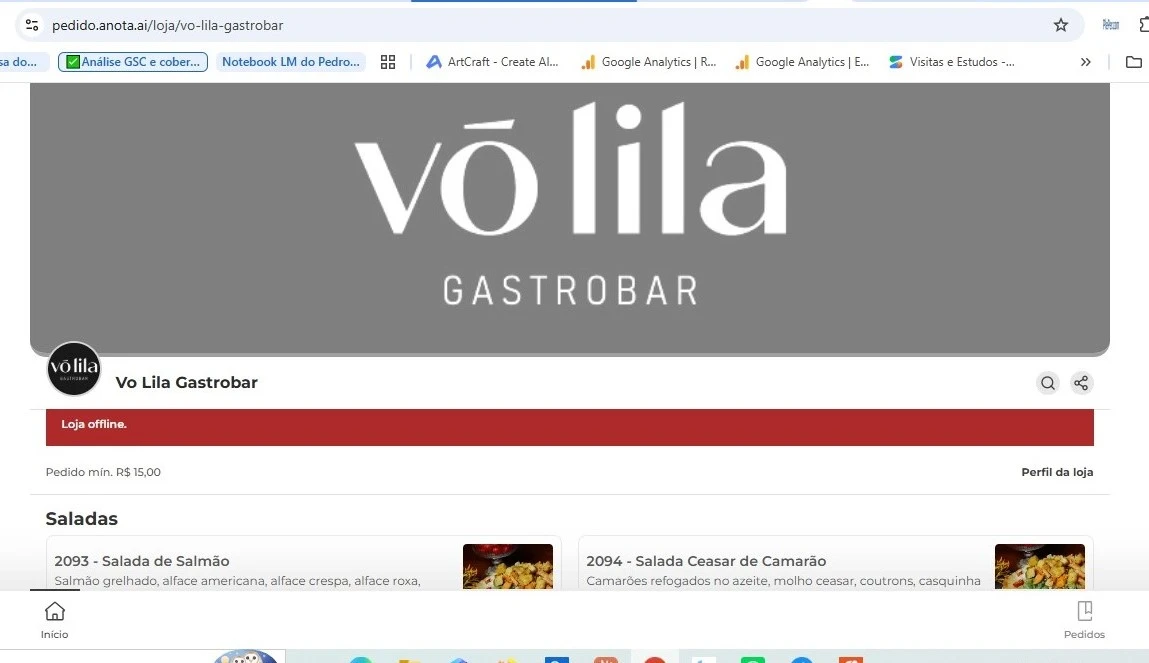
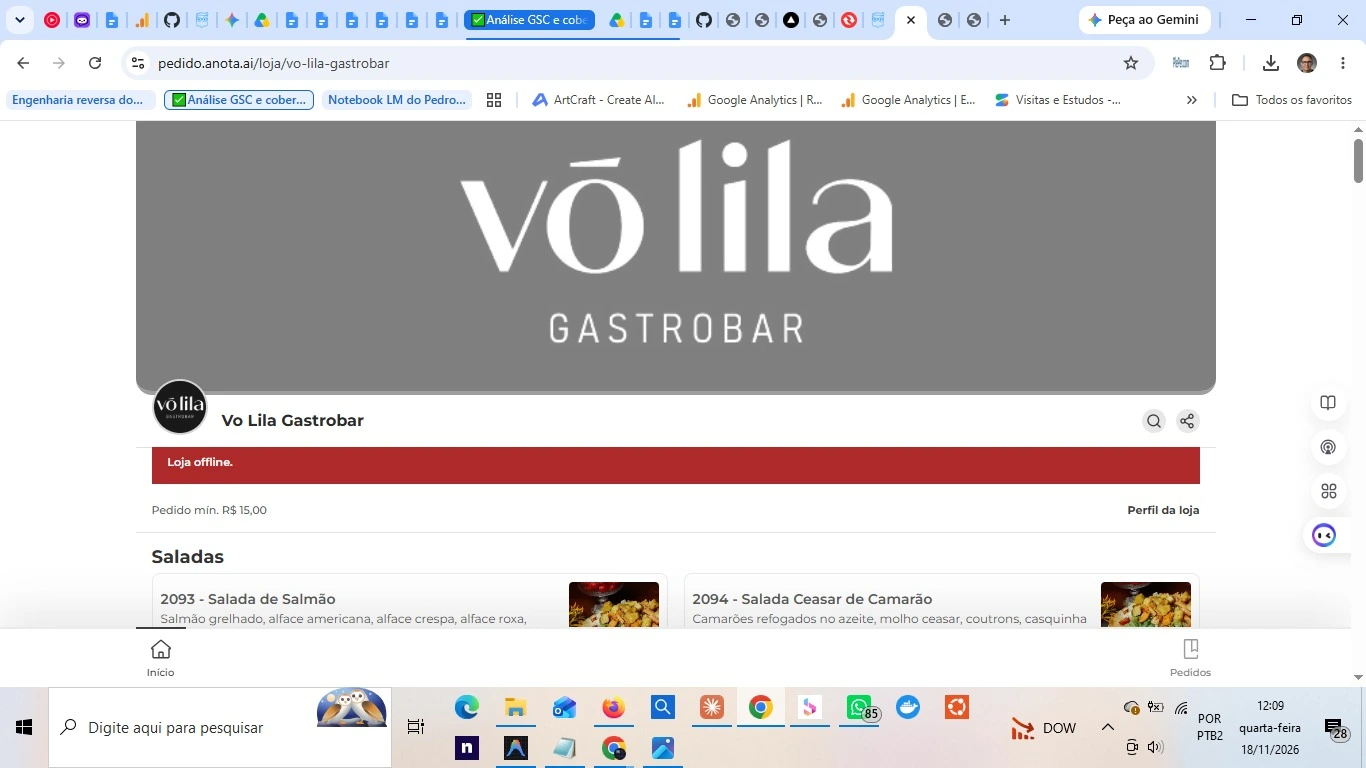
Atualiza print 01 do Anota (12h00) e legenda correspondente

diff --git a/index.html b/index.html
@@ -1214,14 +1214,14 @@
         <div class="prints-grid prints-grid--triplo">
           <!-- Card PRINT 01 (Anota) -->
           <article class="print-card print-card--alerta">
-            <div class="print-card__midia" role="button" tabindex="0" data-lightbox-src="assets/prints/01.webp" data-lightbox-caption="Captura do Anota em [DATA E HORA DO PRINT]: loja exibida como offline em horário de funcionamento.">
-              <img src="assets/prints/01.webp" loading="lazy" alt="Captura do Anota em [DATA E HORA DO PRINT]: loja exibida como offline em horário de funcionamento." />
+            <div class="print-card__midia" role="button" tabindex="0" data-lightbox-src="assets/prints/01.webp" data-lightbox-caption="Captura do Anota em 18/11/2026, 12h00: loja exibida como offline em horário de funcionamento (abertura prevista às 11h).">
+              <img src="assets/prints/01.webp" loading="lazy" alt="Captura do Anota em 18/11/2026, 12h00: loja exibida como offline em horário de funcionamento (abertura prevista às 11h)." />
               <span class="print-card__ampliar">Ampliar print</span>
             </div>
             <div class="print-card__corpo">
               <span class="print-card__badge print-card__badge--alerta">Prioridade 1 • Alerta</span>
               <h3 class="print-card__titulo">Anota AI: "Loja offline" às 17h34 (17/11/2026)</h3>
-              <p class="print-card__legenda">Captura do Anota em [DATA E HORA DO PRINT]: loja exibida como offline em horário de funcionamento.</p>
+              <p class="print-card__legenda">Captura do Anota em 18/11/2026, 12h00: loja exibida como offline em horário de funcionamento (abertura prevista às 11h).</p>
             </div>
           </article>
 
